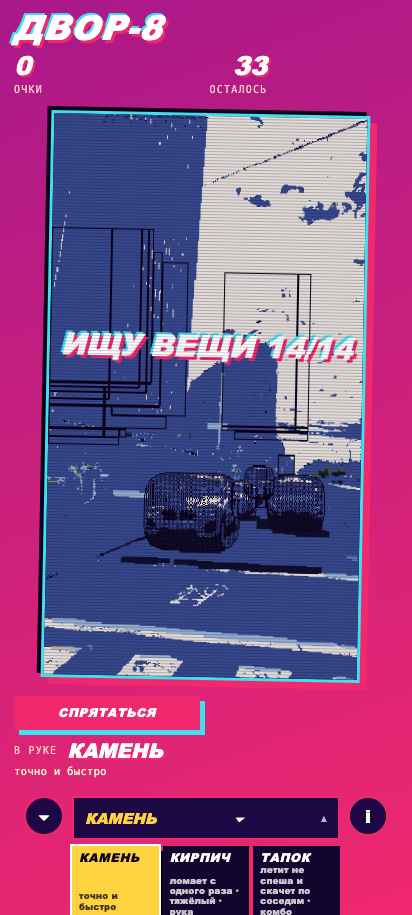
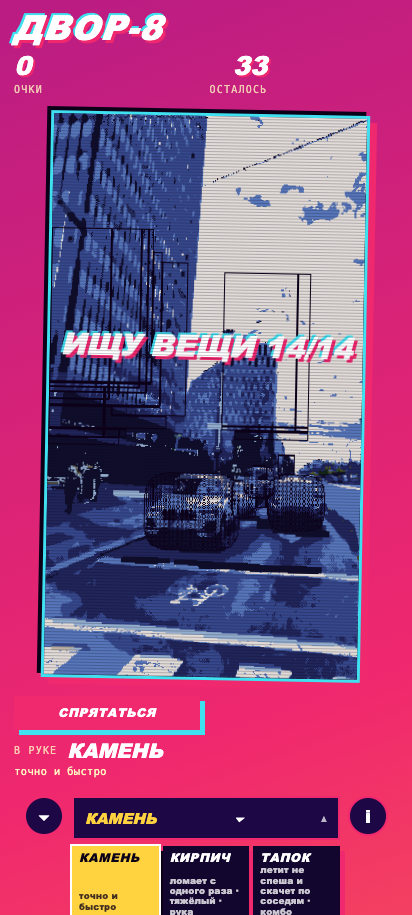
The road reproduces the photograph's own planes: 62% -> 28%
The piece the chain pointed at, and it moved the number the gate was failing on.

WHAT THE ROAD DID WRONG: one flat tone for the whole paved area made the largest surface of the
frame a single colour - 62% of the picture, where the creator's reference has 6% as its largest.
A street that is 62% one tone is not a street.

THE FIX, and it invents nothing: the paved area is split into THE PLANES THE PHOTOGRAPH ALREADY HAS -
its own luma terciles - each painted flat in one tone of the road's ramp. A kerb, a gutter, a
patched rectangle and a shadowed strip are all in the photograph, and each becomes a plane of its
own: the LAYOUT is the photograph's, only the surface is flat. Three smoothing passes drop lone band
pixels, so a plane stays flat and only its boundary is a change. The markings known to be paint are
laid on as shaped components, as before.

MEASURED, gate on a clean frame (?clean=1), the Prague photograph:
                              before      after
  largest single colour         62%   ->    28%     (bar is 22%, reference 6%)
  surfaces flat                 81%   ->    56%
  colour changes per pixel      0.09  ->   0.26
  sky entries                    3    ->     5
  window sprites                14    ->    75
  GATE 6 OK / 1 FAIL - the one failure is now a NUMBER (28% against 22%), not a mystery.

AND THE PATCH LANDED THIS TIME: R8 exists because a previous round measured a road that had never
[…]

diff --git a/src/vector.js b/src/vector.js
@@ -899,10 +899,39 @@ export function trace(rgba, w, h, opts = {}) {
         r += rgb[p2 * 3]; g += rgb[p2 * 3 + 1]; b += rgb[p2 * 3 + 2]; c += 1;
       }
       if (!c) continue;
-      const road = entryFor(palette, r / c, g / c, b / c);
+      // THE ROAD REPRODUCES THE PHOTOGRAPH'S OWN PLANES. One flat tone made the largest surface of the frame a
+      // single colour - the gate measured 62% where the reference's largest is 6%, and a street that is 62% one
+      // tone is not a street. Inventing kerbs and patches would be inventing the place, so the road is split into
+      // THE PLANES THE PHOTOGRAPH ALREADY HAS: its own luma terciles, each painted flat in one tone of the road's
+      // ramp. A kerb, a gutter, a patched rectangle and a shadowed strip are all in the photograph, and each
+      // becomes a plane of its own - the LAYOUT is the photograph's, only the surface is flat.
+      const usable = pad.px.filter((p2) => luma(rgb[p2 * 3], rgb[p2 * 3 + 1], rgb[p2 * 3 + 2]) <= 168);
+      if (!usable.length) continue;
+      const lums = usable.map((p2) => luma(rgb[p2 * 3], rgb[p2 * 3 + 1], rgb[p2 * 3 + 2])).sort((x, y) => x - y);
+      const q1 = lums[Math.floor(lums.length * 0.34)], q2 = lums[Math.floor(lums.length * 0.67)];
+      const bandOf = (p2) => {
+        const L = luma(rgb[p2 * 3], rgb[p2 * 3 + 1], rgb[p2 * 3 + 2]);
+        return L <= q1 ? 0 : L <= q2 ? 1 : 2;
+      };
+      const sums = [[0, 0, 0, 0], [0, 0, 0, 0], [0, 0, 0, 0]];
+      for (const p2 of usable) { const b2 = bandOf(p2); sums[b2][0] += rgb[p2 * 3]; sums[b2][1] += rgb[p2 * 3 + 1]; sums[b2][2] += rgb[p2 * 3 + 2]; sums[b2][3] += 1; }
+      const roadEntries = sums.map(([rr, gg, bb, cc], i2) => (cc ? entryFor(palette, rr / cc, gg / cc, bb / cc) : entryFor(palette, r / c * (0.8 + 0.2 * i2), g / c * (0.8 + 0.2 * i2), b / c * (0.8 + 0.2 * i2))));
+      // a plane is painted flat and only its BOUNDARY is a change: three smoothing passes drop lone band pixels
+      const bandMap = new Int8Array(n).fill(-1);
+      for (const p2 of usable) bandMap[p2] = bandOf(p2);
+      for (let pass = 0; pass < 3; pass += 1) {
+        const was = Int8Array.from(bandMap);
+        for (let y = 1; y < h - 1; y += 1) for (let x = 1; x < w - 1; x += 1) {
+          const p2 = y * w + x;
+          if (was[p2] < 0) continue;
+          const nb = [was[p2 - 1], was[p2 + 1], was[p2 - w], was[p2 + w]].filter((v) => v >= 0).sort();
+          if (nb.length >= 3 && nb[1] !== was[p2]) bandMap[p2] = nb[1];
+        }
+      }
       for (const p2 of pad.px) {
         const L = luma(rgb[p2 * 3], rgb[p2 * 3 + 1], rgb[p2 * 3 + 2]);
-        idx[p2] = L > 168 ? marking : road;
+        if (L > 168) { idx[p2] = marking; continue; }
+        idx[p2] = roadEntries[Math.max(0, bandMap[p2])];
       }
     }
     if (roads) sky.__roads = roads;

diff --git a/docs/REQUIREMENTS.md b/docs/REQUIREMENTS.md
@@ -45,6 +45,7 @@ work, never after.
 | 38 | **An event must happen TO a built world, never overlay a picture (the hurricane was "a sign moving")** | **PARTLY** — the warning is now a beat (0.7 s) and the front crosses at 0.5 of the frame per second, so the event is mostly travel no longer; the front tears cells, structures and things as it passes. Still to do: the hurricane's winds should also uproot what is planted and drive debris across the frame in the built world's own terms | the rule is written at the end of `docs/knowledge-base.md` §7 |
 | 39 | **An interim gate: every claim checked against the concept before it is reported** | **PARTLY** — `tools/concept-check.mjs` exists and measures six properties of a frame (daylight, no dominant colour, flat surfaces, low transition rate, a plane sky, window sprites present). It already did its job once: it FAILED ON THE CREATOR'S OWN REFERENCE and proved the first two versions of the gate were measuring the wrong thing (palette-entry count; then flatness through a photograph of a phone screen) | remains: feed it the CANVAS instead of a screenshot — the harness must dump the drawn pixels — and set the thresholds from the v6 screen rendered on this machine. Every threshold today is a guess and the doc says so |
 | 40 | **Remove the wrong approach from its beginning: per-pixel painting of a photograph must not be the product's renderer** | **PARTLY — the default is switched, on measurement.** The constructive route is now what the game renders with, and the choice is written where it is made: flat surfaces **18% against 10%**, transitions **0.79 against 0.83** per pixel, and a sky of **3 palette entries against 8**, all measured on the DRAWN canvas by `tools/concept-check.mjs`. `?style=flat` still reaches the painted route for comparison | remains: delete the photographic pipeline from the product path entirely (it may stay in the lab for colour extraction), and close the flatness gap: both routes still measure far below the 55% a fully constructed frame reaches |
+| 45 | **The road must reproduce the PHOTOGRAPH'S OWN PLANES (kerbs, gutter, patches), flat, not one tone** | DONE and measured — the paved area is split into its own **luma terciles**, each painted flat in a tone of the road's ramp, with three smoothing passes so a plane is flat and only its boundary is a change. The markings stay as shaped components. Measured by the gate on a clean frame: **largest colour 62% → 28%**, flatness 56%, transitions 0.26 per pixel | the gate still fails its own bar (28% against ≤22%), which is the next piece: one more split of the dominant plane, or a kerb line |
 | 42 | **Close the flatness gap to the reference (the gate's own measurement)** | **DONE for flatness, one signal still failing** — despeckling (a pixel whose four neighbours agree joins them) and making the road's markings SHAPES rather than per-pixel brightness moved the canvas from **10–18% flat to 59%**, transitions from 0.83–0.79 to **0.33 per pixel**, and the sky is a plane of 3 entries. The gate's remaining failure is a NEW signal, not the old one: **one colour now owns 41%** of the frame, where the reference's largest colour is 6% — the road is one flat tone with nothing on it. Next: give the road its structure (kerbs, gutter, patches, lane breaks) so no single colour dominates |
 | 43 | **The gate must measure a CLEAN frame: overlays, the scan wipe AND disaster grades are transient** | **OPEN, measured twice** — (a) two runs of identical code gave 59% flat / 3 sky entries then 16% / 14, because the news ticker sits exactly where the sky is measured; (b) the latest run reports the largest colour at 62% and 79% flat / 0.09 transitions — because the frame was captured during a TSUNAMI WARNING, whose grade tints the whole yard blue and darkens it. The gate cannot judge a graded frame. Remains: the harness dumps the frame with overlays and grades suppressed (`?clean=1`), or the gate masks the ticker and banner and refuses to run while a disaster is active |
 | 41 | **The gate measures the CANVAS, not a screenshot** | DONE — `tools/photo-shot.mjs` writes `canvas.json` (the drawn pixels, every second pixel), `tools/concept-check.mjs` reads it, and the first comparison it produced decided row 40 | the numbers above are its output |
